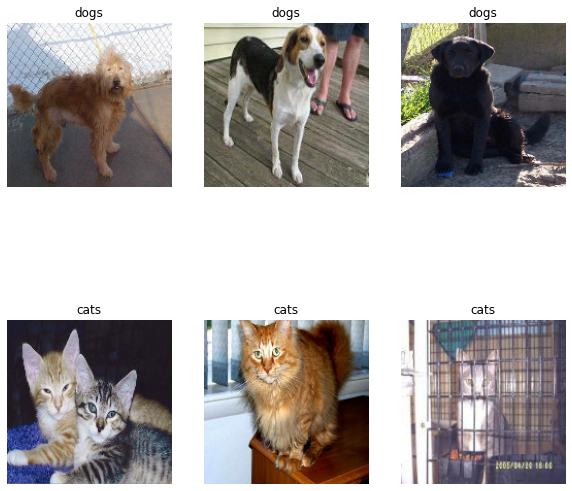
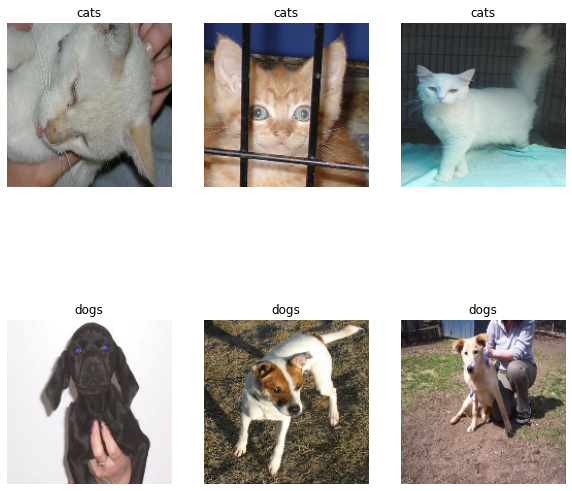
update bp5

diff --git a/_posts/2021-11-12-Blog-5.md b/_posts/2021-11-12-Blog-5.md
@@ -83,28 +83,35 @@ test_dataset = test_dataset.prefetch(buffer_size=AUTOTUNE)
 ```
 ### Working with Datasets
 
-Everytime we call `train_dataset.take(1)` we can retrieve one batch, for our case are labeled 32 imagies from the dataset. Now to try out working with the dataset, let's write a function generating three random picutres of dogs and three random pictures of cats.
+Everytime we call `train_dataset.take(1)` we can retrieve one batch, for our case are labeled 32 imagies from the dataset. Now to try out working with the dataset, let's write a function generating three random picutres of cats and three random pictures of dogs.
 
 ```python
 # Working with Datasets
 plt.figure(figsize=(10, 10))
 class_names = ['cats', 'dogs']
-for images, labels in train_dataset.take(1):
-    i = 1
-    for j in range(len(labels)):
-        if labels[j]==1 and i < 4:
-          ax = plt.subplot(2, 3, i)
-          i = i+1
-          plt.imshow(images[j].numpy().astype("uint8"))
-          plt.title(class_names[labels[j]])
-          plt.axis("off")
-    for j in range(len(labels)):
-        if labels[j]==0 and i < 7:
-          ax = plt.subplot(2, 3, i)
-          i = i+1
-          plt.imshow(images[j].numpy().astype("uint8"))
-          plt.title(class_names[labels[j]])
-          plt.axis("off")
+# define the function
+def cats_and_dogs():
+	""""
+	shows labeled images of cats in one row and labeled images of dogs in another row
+	""""
+    for images, labels in train_dataset.take(1):
+        i = 1
+        for j in range(len(labels)):
+            if labels[j]==0 and i < 4:
+              ax = plt.subplot(2, 3, i)
+              i = i+1
+              plt.imshow(images[j].numpy().astype("uint8"))
+              plt.title(class_names[labels[j]])
+              plt.axis("off")
+        for j in range(len(labels)):
+            if labels[j]==1 and i < 7:
+              ax = plt.subplot(2, 3, i)
+              i = i+1
+              plt.imshow(images[j].numpy().astype("uint8"))
+              plt.title(class_names[labels[j]])
+              plt.axis("off")
+# call the function
+cats_and_dogs()
 ```
 
 ![image-example.png]({{ site.baseurl }}/images/bp51.png)
